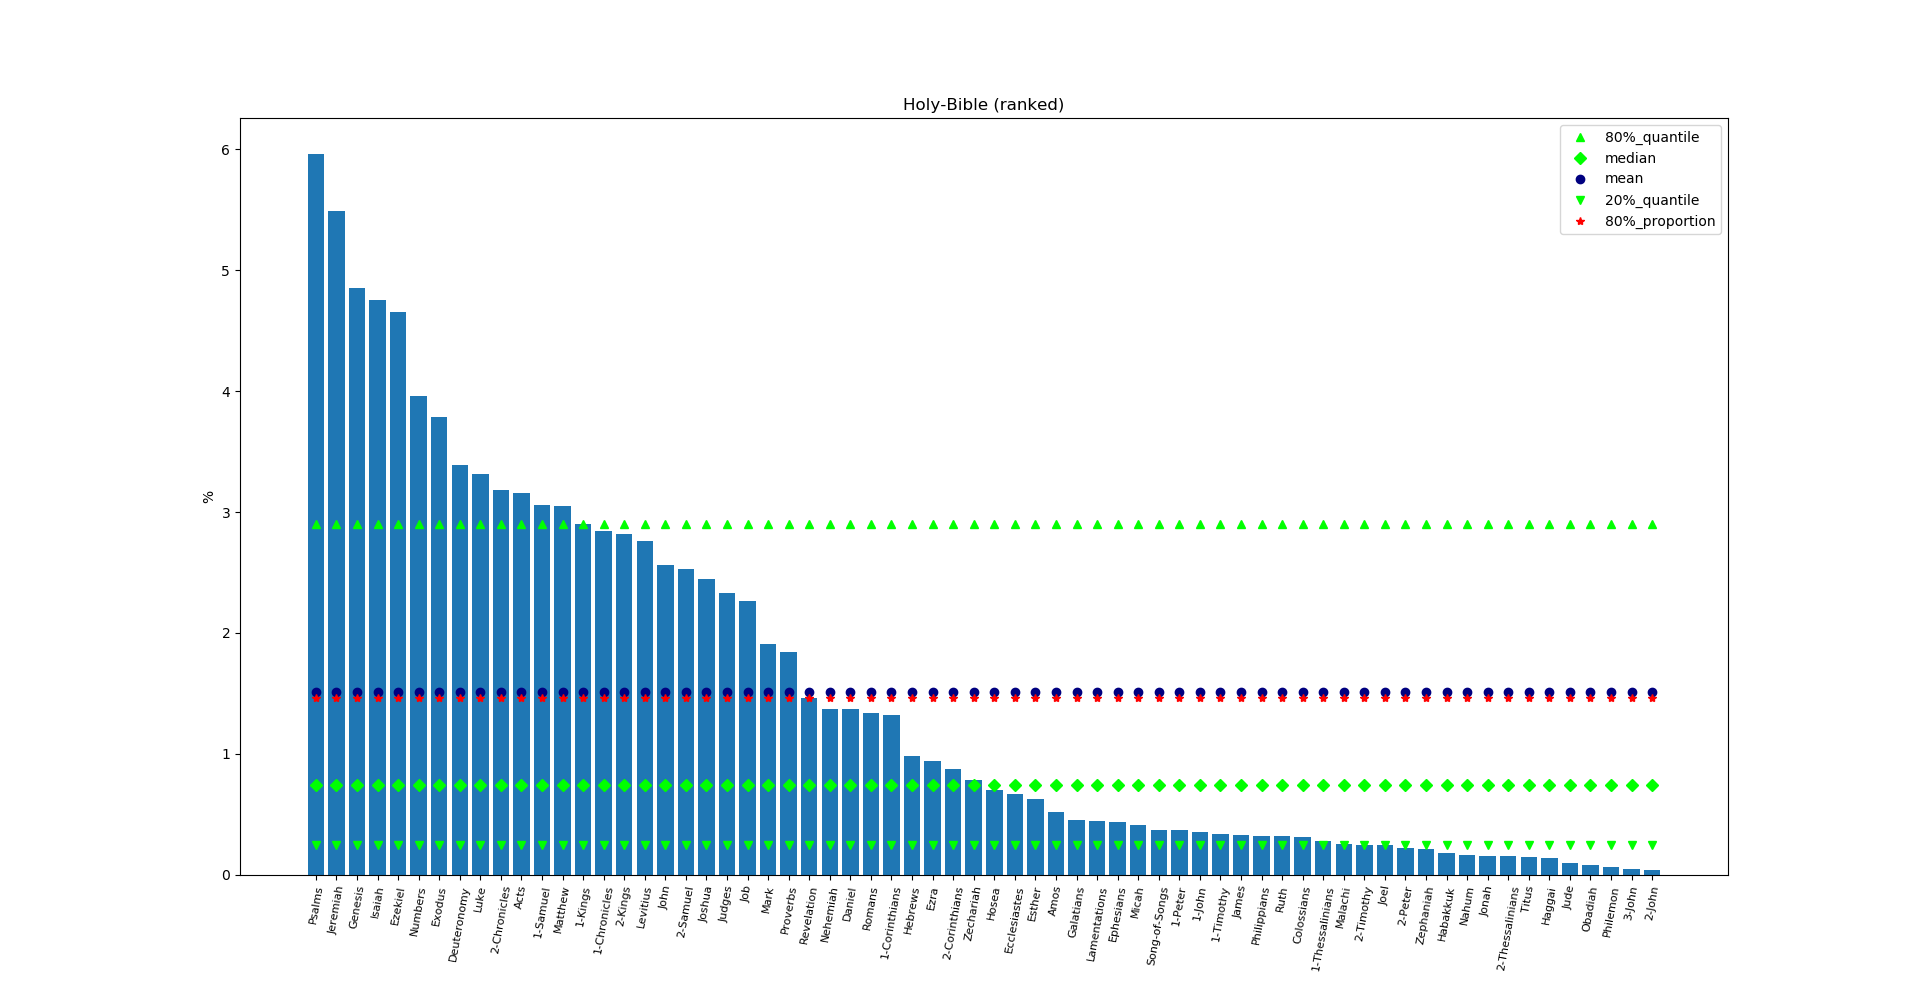
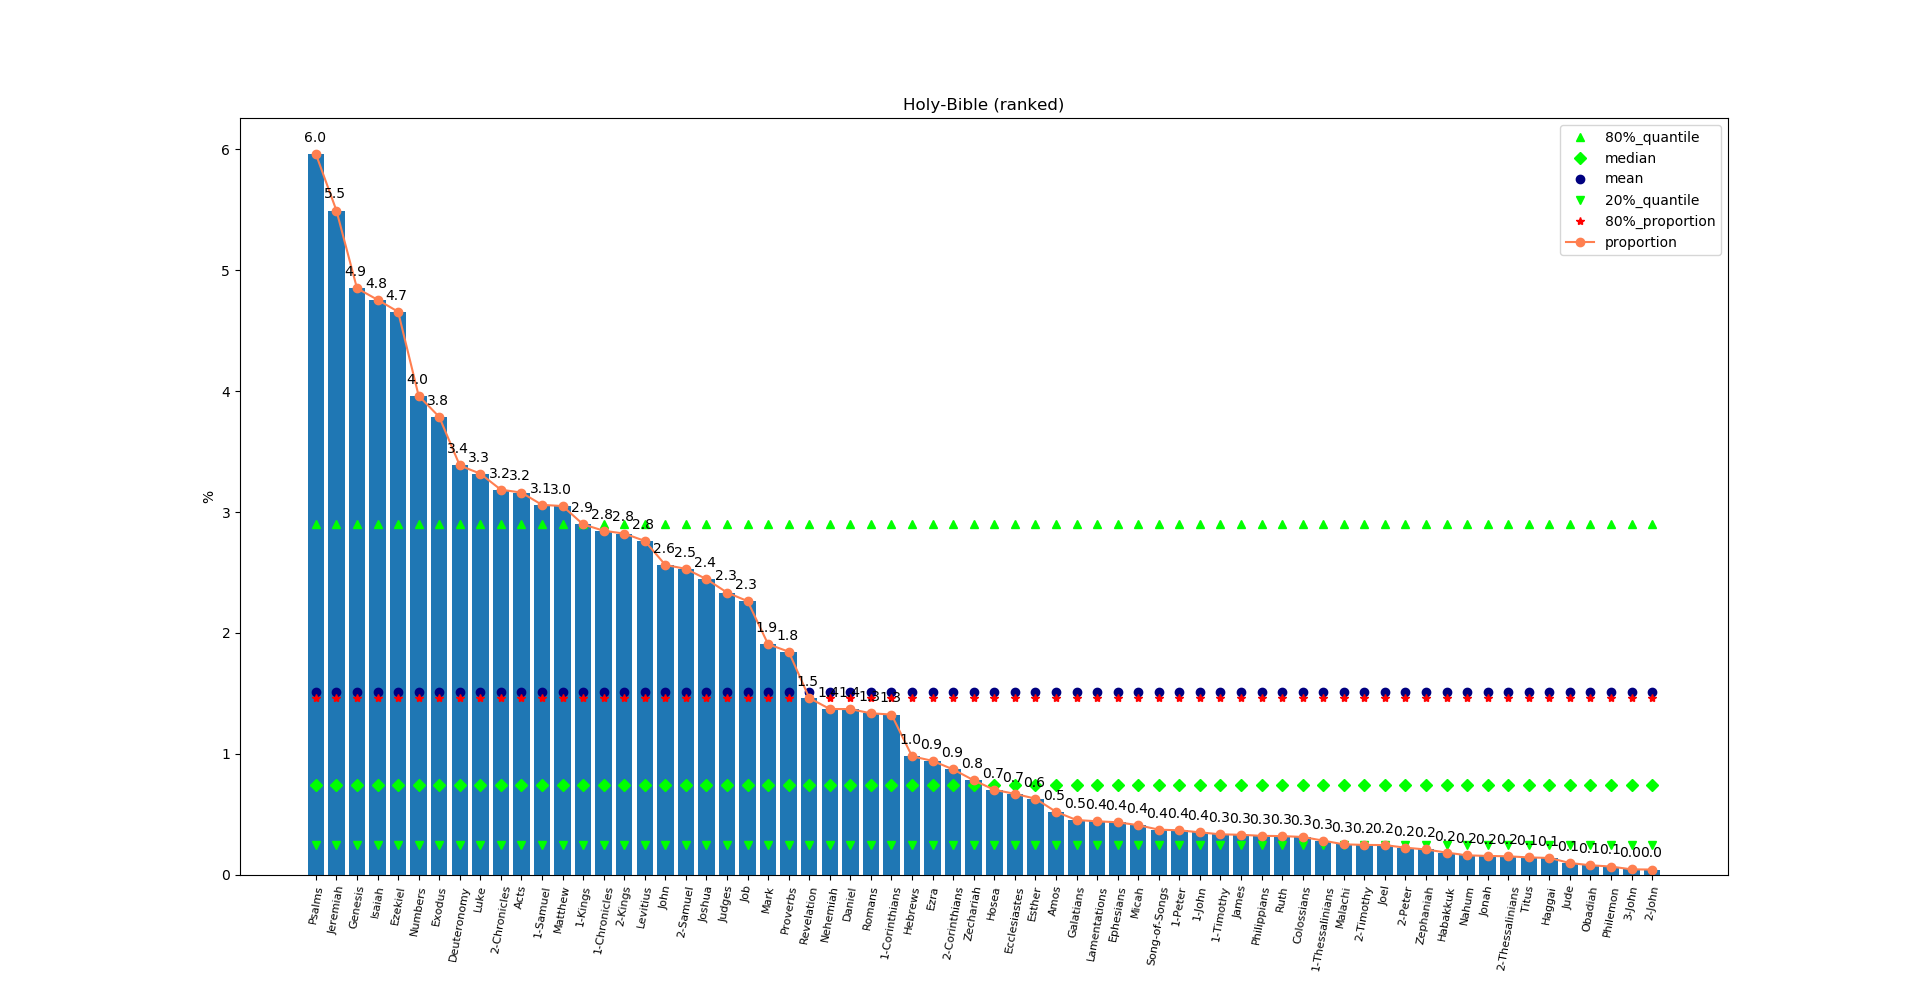
丰富

diff --git a/stat_word_by_book.py b/stat_word_by_book.py
@@ -101,25 +101,33 @@ new_word_num=array(new_word_num)/sum(new_word_num)
 
 fig = plt.figure(1)  
 ax  = fig.add_subplot(111)  
-ax=plt.bar(range(len(word_num)), word_num*100,tick_label=books)  
-plt.xticks(range(len(word_num)),rotation=80,fontsize=8)
+all_x = range(len(word_num))
+all_y = word_num*100
+ax=plt.bar(all_x, all_y,tick_label=books)  
+plt.xticks(all_x,rotation=80,fontsize=8)
 plt.ylabel("%")
 plt.title("Holy-Bible")
-p80=np.percentile(word_num*100,80)#80%分位数
-pm=np.median(word_num*100)
-mean=np.mean(word_num*100)
-p20=np.percentile(word_num*100,20)#20%分位数
-plt.plot(range(len(word_num)),len(word_num)*[p80],'^',color='lime',label='80%_quantile') 
-plt.plot(range(len(word_num)),len(word_num)*[pm],'D',color='lime',label='median') 
-plt.plot(range(len(word_num)),len(word_num)*[mean],'o',color='navy',label='mean') 
-plt.plot(range(len(word_num)),len(word_num)*[p20],'v',color='lime',label='20%_quantile')
-prop80=proportion(word_num*100,0.8) 
-plt.plot(range(len(word_num)),len(word_num)*[prop80],'*',color='red',label='80%_proportion') 
+p80=np.percentile(all_y,80)#80%分位数
+pm=np.median(all_y)
+mean=np.mean(all_y)
+p20=np.percentile(all_y,20)#20%分位数
+plt.plot(all_x,len(word_num)*[p80],'^',color='lime',label='80%_quantile') 
+plt.plot(all_x,len(word_num)*[pm],'D',color='lime',label='median') 
+plt.plot(all_x,len(word_num)*[mean],'o',color='navy',label='mean') 
+plt.plot(all_x,len(word_num)*[p20],'v',color='lime',label='20%_quantile')
+prop80=proportion(all_y,0.8) 
+plt.plot(all_x,len(word_num)*[prop80],'*',color='red',label='80%_proportion') 
+for xx,yy in zip(all_x,all_y):
+  plt.text(xx-0.6,yy+0.1,'%.1f'%yy) 
+# 光滑曲线
+plt.plot(all_x, all_y,'o-',color='coral',label='proportion')
 plt.legend()
 plt.show() 
 
 fig = plt.figure(2)  
 ax  = fig.add_subplot(111)  
+order_all_x = range(len(order_word_num))
+order_all_y = order_word_num*100
 ax=plt.bar(range(len(order_word_num)), order_word_num*100,tick_label=order_books)  
 plt.xticks(range(len(order_word_num)),rotation=80,fontsize=8)
 plt.ylabel("%")
@@ -134,43 +142,61 @@ plt.plot(range(len(order_word_num)),len(order_word_num)*[mean],'o',color='navy',
 plt.plot(range(len(order_word_num)),len(order_word_num)*[p20],'v',color='lime',label='20%_quantile')
 prop80=proportion(order_word_num*100,0.8) 
 plt.plot(range(len(order_word_num)),len(order_word_num)*[prop80],'*',color='red',label='80%_proportion')
+for xx,yy in zip(order_all_x,order_all_y):
+  plt.text(xx-0.6,yy+0.1,'%.1f'%yy) 
+# 光滑曲线
+plt.plot(order_all_x, order_all_y,'o-',color='coral',label='proportion')
 plt.legend()
 plt.show() 
 
 fig = plt.figure(3)  
 ax  = fig.add_subplot(111)  
-ax=plt.bar(range(len(old_word_num)), old_word_num*100,tick_label=old_books)  
-plt.xticks(range(len(old_word_num)),rotation=60)
+old_x = range(len(old_word_num))
+old_y = old_word_num*100
+ax=plt.bar(old_x, old_y,tick_label=old_books)  
+plt.xticks(old_x,rotation=60)
 plt.ylabel("%")
 plt.title("Old_Testament")
-p80=np.percentile(old_word_num*100,80)#80%分位数
-pm=np.median(old_word_num*100)
-mean=np.mean(old_word_num*100)
-p20=np.percentile(old_word_num*100,20)#20%分位数
-plt.plot(range(len(old_word_num)),len(old_word_num)*[p80],'^',color='lime',label='80%_quantile') 
-plt.plot(range(len(old_word_num)),len(old_word_num)*[pm],'D',color='lime',label='median') 
-plt.plot(range(len(old_word_num)),len(old_word_num)*[mean],'o',color='navy',label='mean') 
-plt.plot(range(len(old_word_num)),len(old_word_num)*[p20],'v',color='lime',label='20%_quantile')
-prop80=proportion(old_word_num*100,0.8) 
-plt.plot(range(len(old_word_num)),len(old_word_num)*[prop80],'*',color='red',label='80%_proportion')
+p80=np.percentile(old_y,80)#80%分位数
+pm=np.median(old_y)
+mean=np.mean(old_y)
+p20=np.percentile(old_y,20)#20%分位数
+plt.plot(old_x,len(old_word_num)*[p80],'^',color='lime',label='80%_quantile') 
+plt.plot(old_x,len(old_word_num)*[pm],'D',color='lime',label='median') 
+plt.plot(old_x,len(old_word_num)*[mean],'o',color='navy',label='mean') 
+plt.plot(old_x,len(old_word_num)*[p20],'v',color='lime',label='20%_quantile')
+prop80=proportion(old_y,0.8) 
+plt.plot(old_x,len(old_word_num)*[prop80],'*',color='red',label='80%_proportion')
+for xx,yy in zip(old_x,old_y):
+  plt.text(xx-0.3,yy+0.1,'%.1f'%yy) 
+# 光滑曲线
+plt.plot(old_x, old_y,'o-',color='coral',label='proportion')
 plt.legend()
 plt.show() 
 
 fig = plt.figure(4)  
-ax  = fig.add_subplot(111)  
-ax=plt.bar(range(len(new_word_num)), new_word_num*100,tick_label=new_books)  
+ax  = fig.add_subplot(111) 
+new_x = range(len(new_word_num))
+new_y = new_word_num*100
+ax=plt.bar(new_x, new_y,tick_label=new_books)  
 plt.xticks(range(len(new_word_num)),rotation=60)
 plt.ylabel("%")
 plt.title("New_Testament")
-p80=np.percentile(new_word_num*100,80)#80%分位数
-pm=np.median(new_word_num*100)
-mean=np.mean(new_word_num*100)
-plt.plot(range(len(new_word_num)),len(new_word_num)*[p80],'^',color='lime',label='80%_quantile') 
-plt.plot(range(len(new_word_num)),len(new_word_num)*[pm],'D',color='lime',label='median') 
-plt.plot(range(len(new_word_num)),len(new_word_num)*[mean],'o',color='navy',label='mean') 
-plt.plot(range(len(new_word_num)),len(new_word_num)*[p20],'v',color='lime',label='20%_quantile')
+# 画出各分位数线
+p80=np.percentile(new_y,80)#80%分位数
+pm=np.median(new_y)
+mean=np.mean(new_y)
+plt.plot(new_x,len(new_word_num)*[p80],'^',color='lime',label='80%_quantile') 
+plt.plot(new_x,len(new_word_num)*[pm],'D',color='lime',label='median') 
+plt.plot(new_x,len(new_word_num)*[mean],'o',color='navy',label='mean') 
+plt.plot(new_x,len(new_word_num)*[p20],'v',color='lime',label='20%_quantile')
 prop80=proportion(new_word_num*100,0.8) 
-plt.plot(range(len(new_word_num)),len(new_word_num)*[prop80],'*',color='red',label='80%_proportion')
+plt.plot(new_x,len(new_word_num)*[prop80],'*',color='red',label='80%_proportion')
+# 标记柱形的高度值
+for xx,yy in zip(new_x,new_y):
+  plt.text(xx-0.2,yy+0.1,'%.1f'%yy)
+# 光滑曲线
+plt.plot(new_x, new_y,'o-',color='coral',label='proportion')
 plt.legend()
 plt.show() 
 
